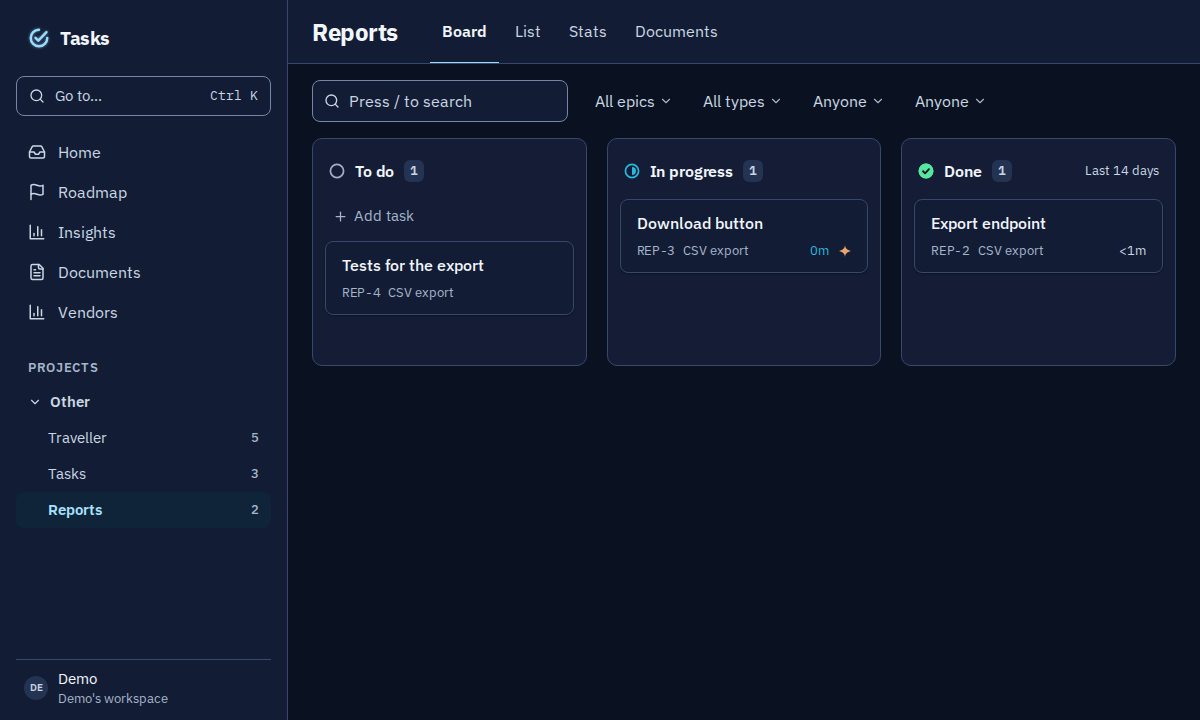
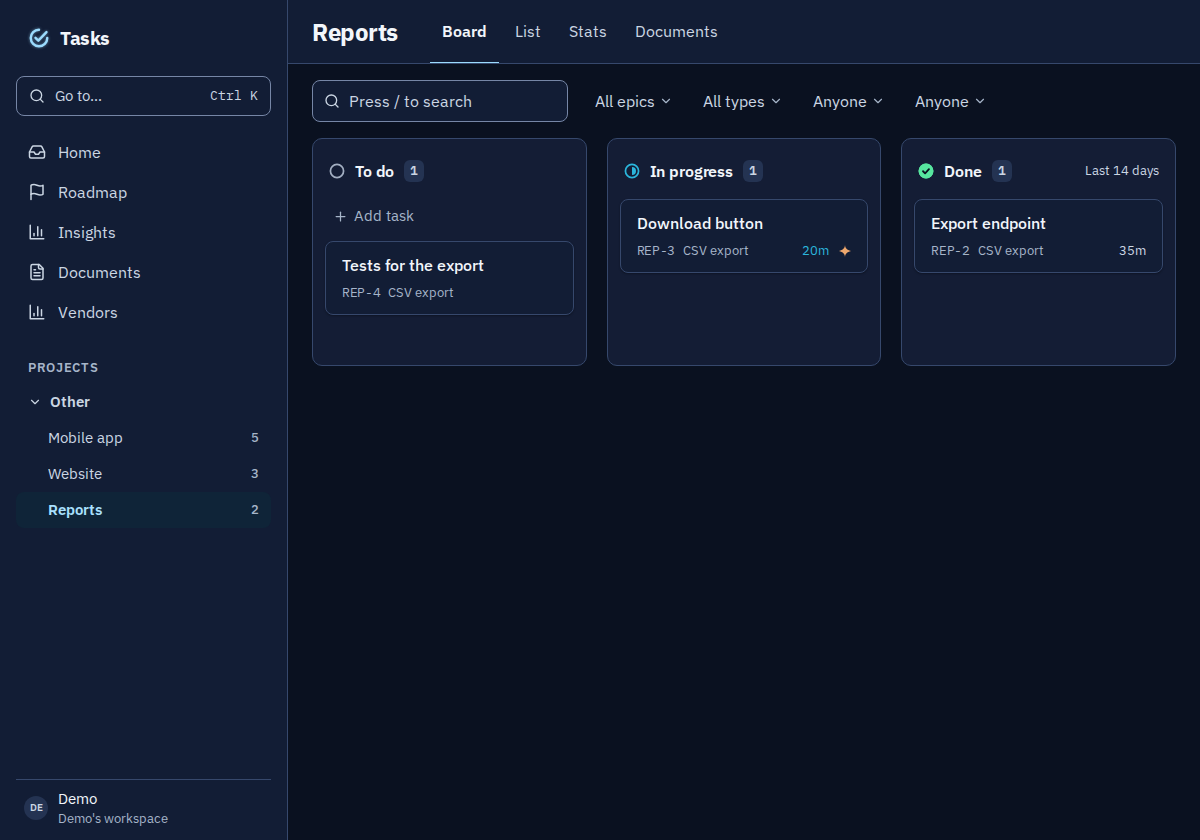
docs: re-record after review: the open question and the item's document in view, real times, neutral demo projects, end on the epic's links (TSK-199)

diff --git a/README.md b/README.md
@@ -24,7 +24,7 @@ their work, or with plain markdown files in your project (local mode, no account
 
 You ask for a feature; the agent runs the whole cycle in Tasks:
 
-<p align="center"><img src="assets/demo.gif" width="960" alt="The agent adds CSV export to the roadmap, writes a document the person approves, creates an epic with three tasks, moves them across the board with notes and a resume card, and the roadmap shows it done"></p>
+<p align="center"><img src="assets/demo.gif" width="960" alt="The agent adds CSV export to the roadmap, writes a document the person approves, creates an epic with three tasks, moves them across the board with notes, time and a resume card, and ends on the done epic with its document and tasks"></p>
 
 ```text
 You:   Plan CSV export for reports, then build it.
